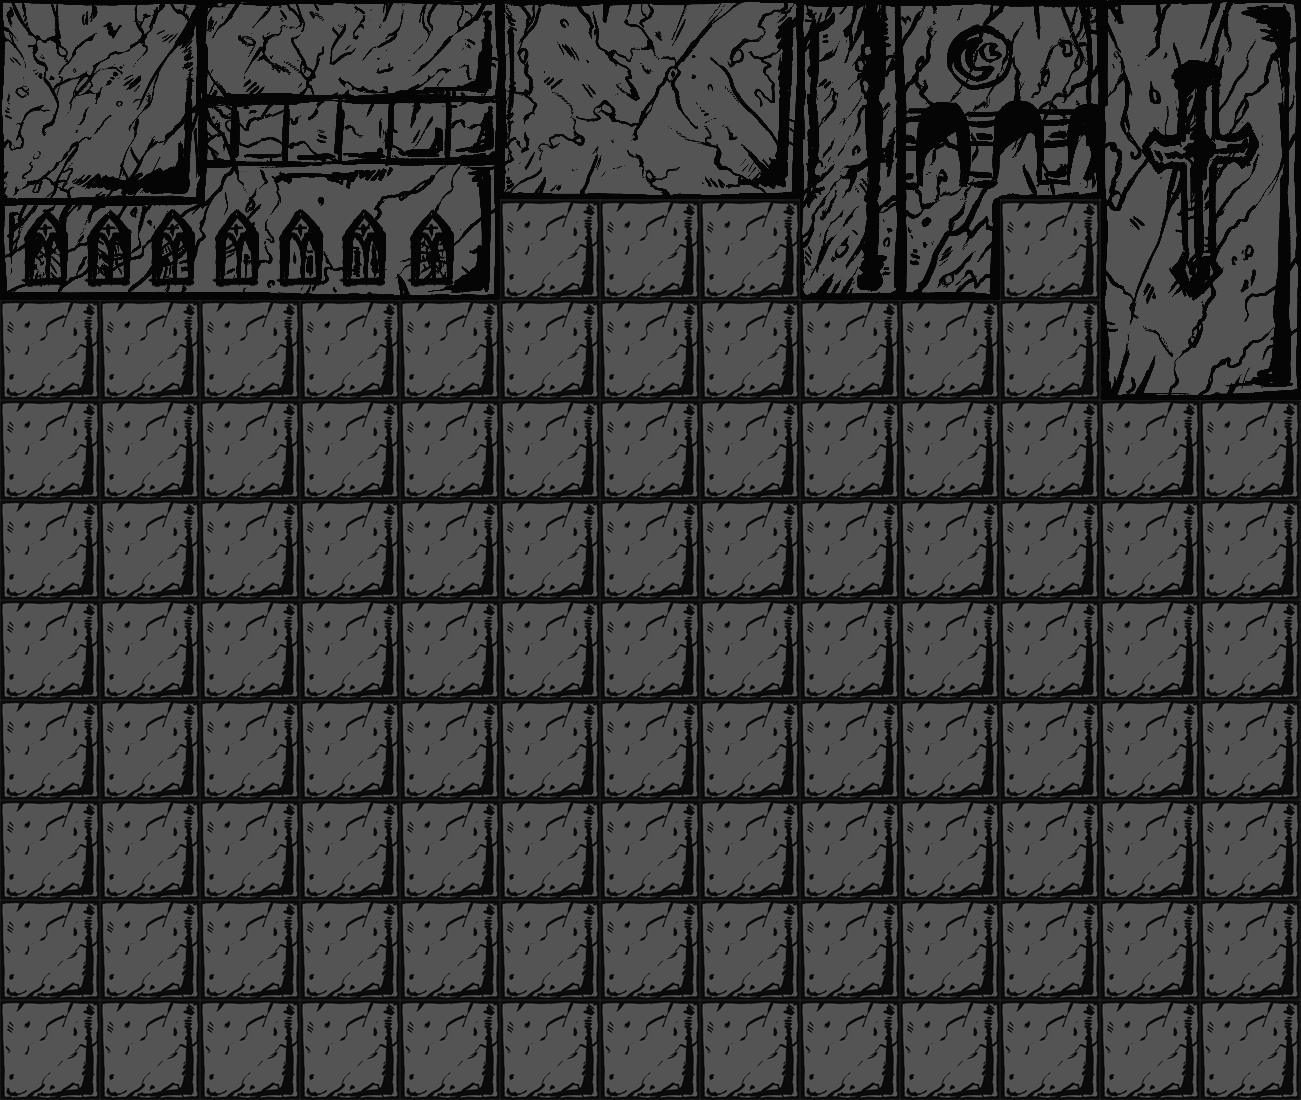
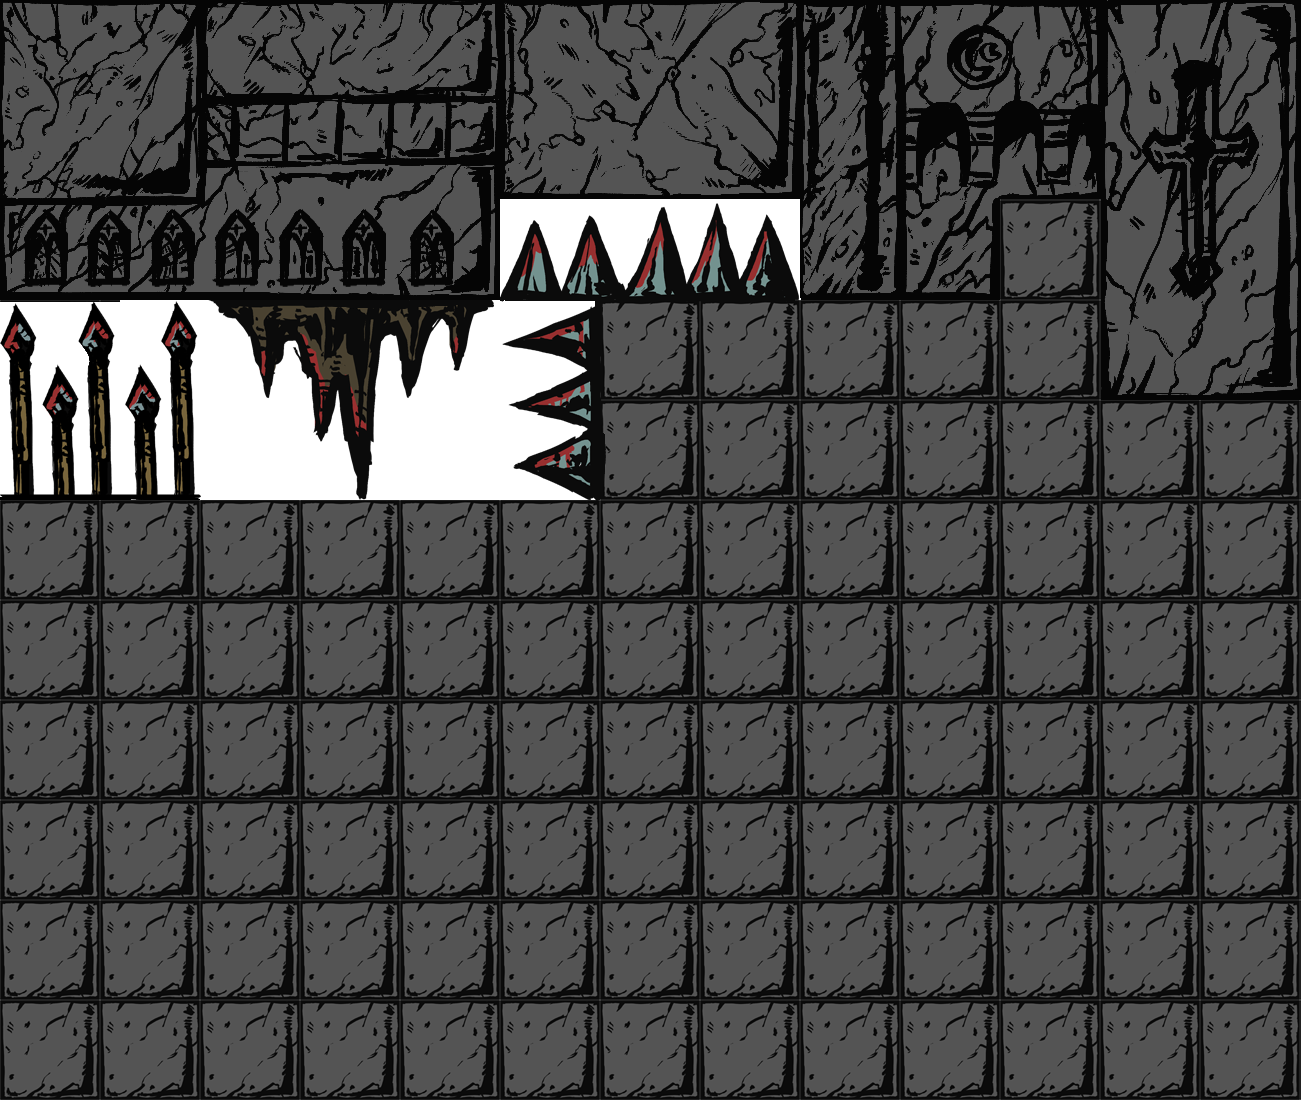
more level

Changed region(s): [[0.0, 0.1545, 0.6149, 0.4636]]

diff --git a/renderer.js b/renderer.js
@@ -83,7 +83,7 @@ Promise.all([
     const gravity = 30;
     const timer = new Timer(1 / 60);
 
-    setInitialPosition(hero, 5998, 400);
+    setInitialPosition(hero, 8035, 822);
 
     //create Layers
 
@@ -176,27 +176,19 @@ Promise.all([
     let randCount = 0;
     let randX = 0;
 
+    let transition = false;
+    let bossTransition = false;
+
     timer.update = function update(deltaTime) {
       comp.draw(context, camera);
 
-      // if (hero.pos.x > 6000) {
-      //   if (camera.pos.x < hero.pos.x - 100) {
-      //     camera.pos.x += (hero.pos.x * 0.9 - camera.pos.x + 100) / 20;
-      //   }
-      //   console.log(camera.pos.x + " " + hero.pos.x);
-      // } else {
-      //   //donsole.log(hero.pos.x);
-      //   camera.setPosition(hero.pos.x * 0.8, hero.pos.y * 0.05);
-      // }
-
-      // if (hero.pos.x > 6300) {
-      //   camera.setPosition(6300 + (hero.pos.x - 6250) * 0.8, hero.pos.y * 0.05);
-      // }
-
-      //console.log(camera.pos.x - hero.pos.x);
-      console.log(hero.pos.x);
       if (hero.pos.x > 6400) {
         camera.pos.x = lerp(camera.pos.x, hero.pos.x, 0.1);
+        camera.pos.y = hero.pos.y * 0.3;
+        transition = true;
+        if (!canvas.classList.contains("shook")) {
+          canvas.classList.add("shook");
+        }
       } else {
         camera.setPosition(hero.pos.x * 0.8, hero.pos.y * 0.05);
       }
@@ -285,6 +277,7 @@ Promise.all([
           21
         );
       }
+
       // enemies
       enemies.forEach(function(enem, index) {
         var tmpa = 0;
@@ -461,6 +454,7 @@ Promise.all([
         hero.pos.y = click.y;
       }
       click.y += camera.pos.y + 30;
+      if (transition) click.y += camera.pos.y - 25;
       if (event.button === 0) {
         isMouseDown = true;
         obstacles.forEach(rect => {

diff --git a/helpers/sprites.js b/helpers/sprites.js
@@ -172,6 +172,22 @@ function loadLevelBlocks() {
     blocks.define("tallSkinny0", 8, 0, 100, 100);
     blocks.define("tallSkinny1", 8, 1, 100, 100);
     blocks.define("tallSkinny2", 8, 2, 100, 100);
+    blocks.define("topSpikes0", 5, 2, 100, 100);
+    blocks.define("topSpikes1", 6, 2, 100, 100);
+    blocks.define("topSpikes2", 7, 2, 100, 100);
+    blocks.define("pungy0", 0, 3, 100, 100);
+    blocks.define("pungy1", 1, 3, 100, 100);
+    blocks.define("pungy2", 0, 4, 100, 100);
+    blocks.define("pungy3", 1, 4, 100, 100);
+    blocks.define("cross0", 11, 0, 100, 100);
+    blocks.define("cross1", 12, 0, 100, 100);
+    blocks.define("cross2", 11, 1, 100, 100);
+    blocks.define("cross3", 12, 1, 100, 100);
+    blocks.define("cross4", 11, 2, 100, 100);
+    blocks.define("cross5", 12, 2, 100, 100);
+    blocks.define("cross6", 11, 3, 100, 100);
+    blocks.define("cross7", 12, 3, 100, 100);
+    blocks.define("rightSpike0", 5, 3, 100, 100);
     return blocks;
   });
 }

diff --git a/css/style.css b/css/style.css
@@ -1,5 +1,40 @@
+body {
+  background: #000;
+}
+
 #canvas {
   display: none;
+}
+
+.shook {
+  /* animation: shake 0.92s cubic-bezier(0.36, 0.07, 0.19, 0.97) both; */
+  transform: translate3d(0, 0, 0);
+  backface-visibility: hidden;
+  perspective: 1000px;
+  transition: all 0.3 ease;
+}
+
+@keyframes shake {
+  10%,
+  90% {
+    transform: translate3d(-5px, 0, 0) rotate(2deg) scale(1.1);
+  }
+
+  20%,
+  80% {
+    transform: translate3d(9px, 0, 0) rotate(12deg) scale(1.2);
+  }
+
+  30%,
+  50%,
+  70% {
+    transform: translate3d(-10px, 0, 0) rotate(2deg) scale(1.12);
+  }
+
+  40%,
+  60% {
+    transform: translate3d(12px, 0, 0) rotate(12deg) scale(1.24);
+  }
 }
 
 /* MENU STYLES */

diff --git a/helpers/layers.js b/helpers/layers.js
@@ -10,7 +10,7 @@ function drawBackground(background, context, sprites) {
 
 function createBackgroundLayer(backgrounds, sprites, camera) {
   const buffer = document.createElement("canvas");
-  buffer.width = 9000;
+  buffer.width = 22000;
   buffer.height = 2000;
 
   backgrounds.forEach(background => {

diff --git a/helpers/Entity.js b/helpers/Entity.js
@@ -20,6 +20,7 @@ class Entity {
     this.facingLeft = false;
     this.shootFrame = 0;
     this.topBound = 0;
+    window.entity = this;
   }
 }
 
